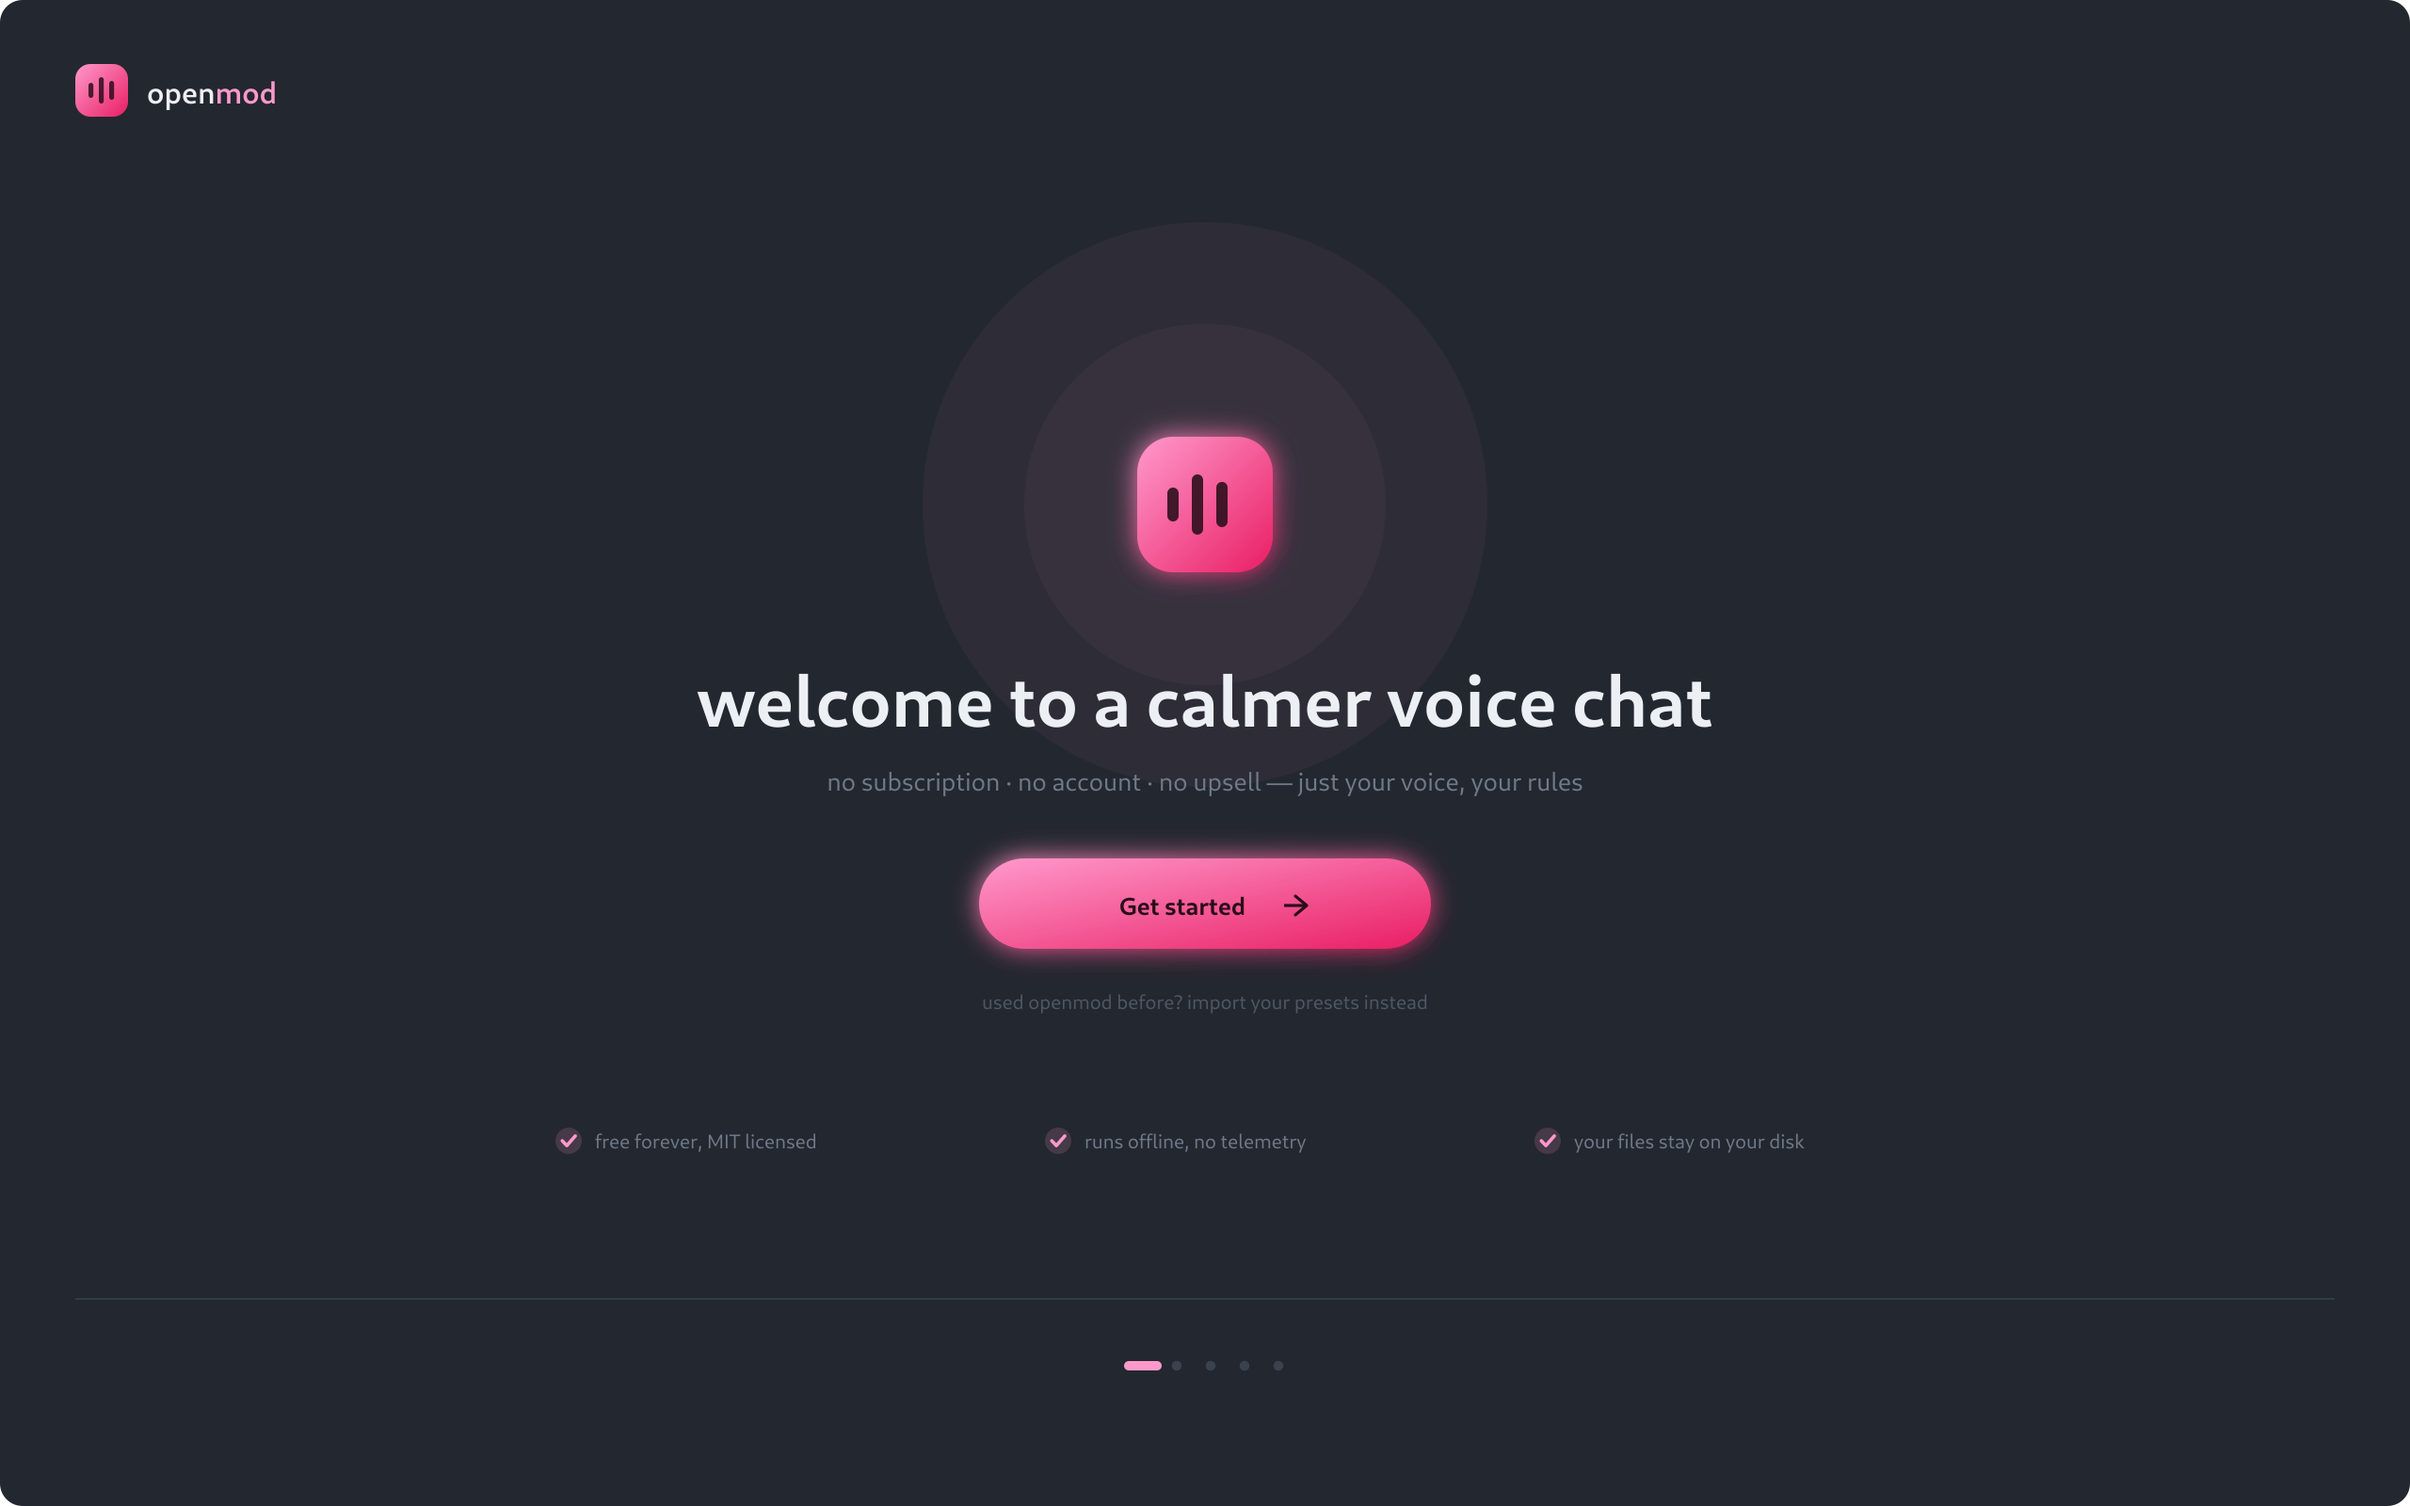
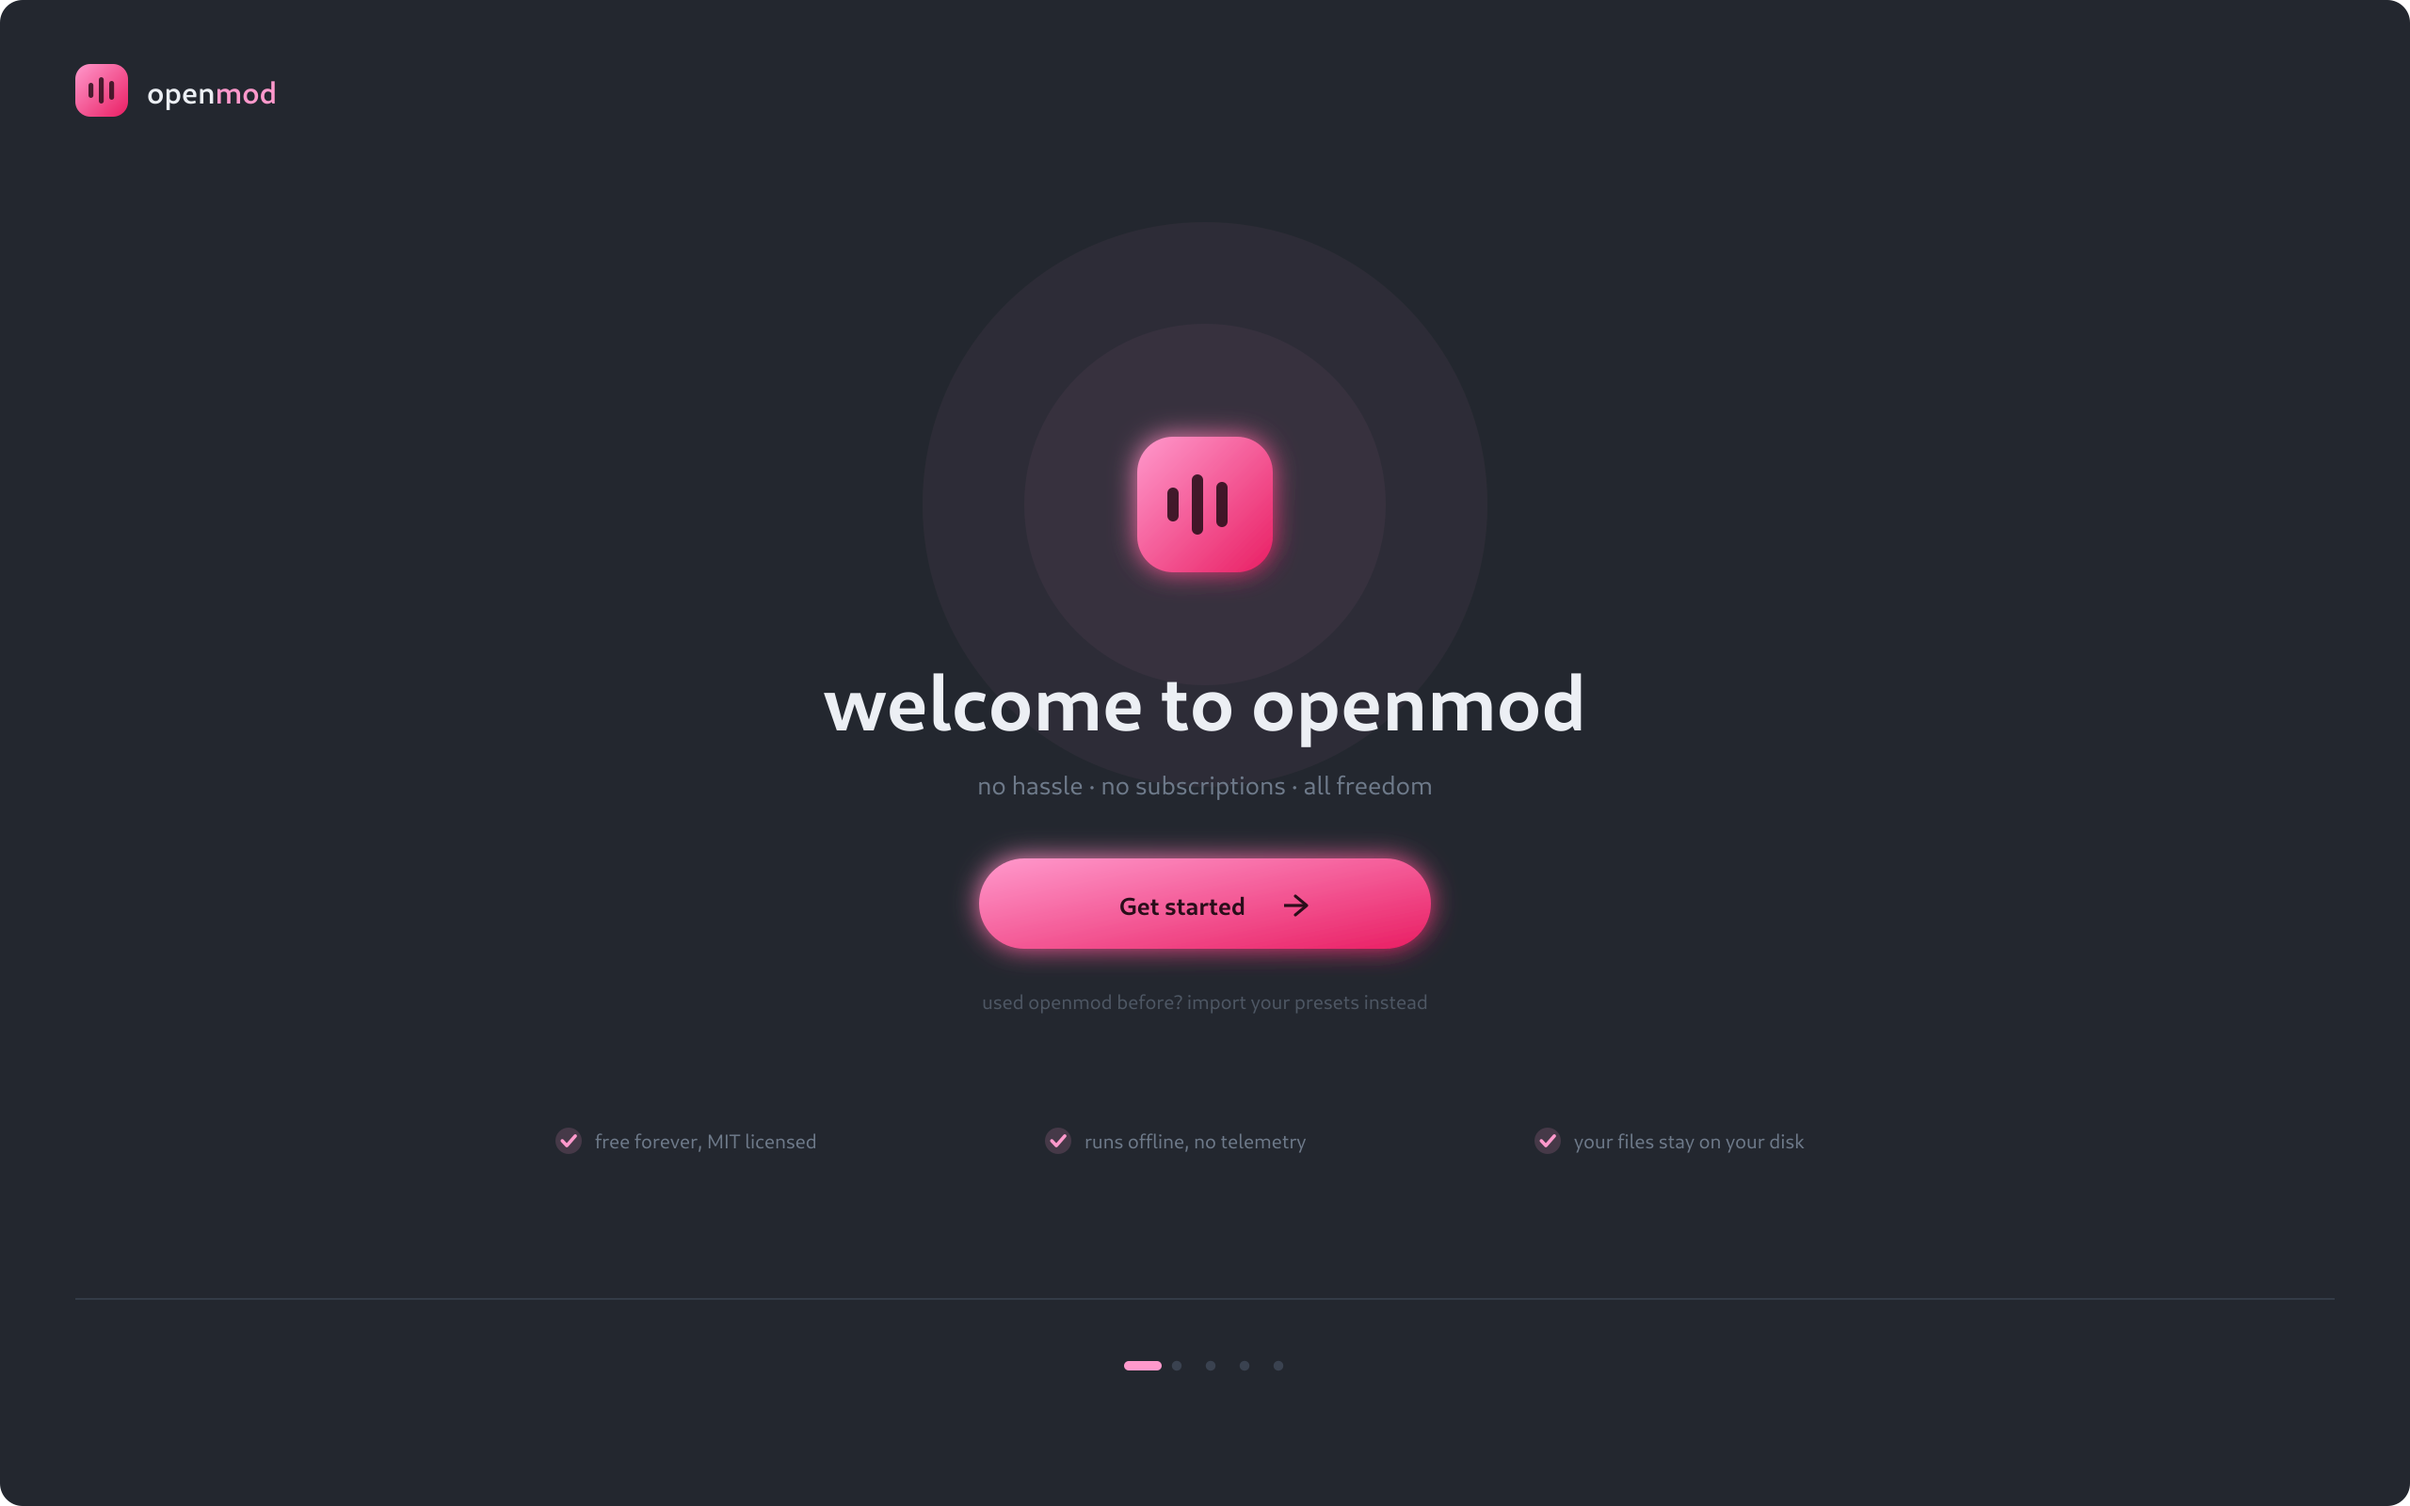
ui: welcome copy — "welcome to openmod / no hassle · no subscriptions · all freedom"
The user's wording, in the wizard's own type voice. Every other headline in the
flow is lowercase ("welcome", "you're live"), and the product name is lowercase
everywhere else in the project, so the headline stays lowercase and the tagline
keeps the middot rhythm instead of commas.

- draw_wizard_welcome(headline, tagline) is parameterised now, so the copy is a
  value instead of being baked into the draw calls
- wizard_sheet.py: the contact sheet was generated inline in a shell one-liner;
  it's a checked-in script now so the sheet is reproducible
- ui/README.md: file table + regen commands cover the sheet, and step 1's row
  quotes the shipped wording

Changed region(s): [[0.2812, 0.4375, 0.7188, 0.5312]]

diff --git a/ui/wizard_sheet.py b/ui/wizard_sheet.py
@@ -1,0 +1,62 @@
+#!/usr/bin/env python3
+"""Compose the first-launch wizard screens into one contact sheet.
+
+Run after mockup.py + rsvg-convert (it embeds the 2x PNGs, not the SVGs):
+
+    python3 ui/mockup.py
+    for f in ui/mockup-wizard-*.svg; do rsvg-convert -z 2 "$f" -o "${f%.svg}.png"; done
+    python3 ui/wizard_sheet.py
+    rsvg-convert -z 1 ui/mockup-wizard-sheet.svg -o ui/mockup-wizard-sheet.png
+"""
+
+import os
+
+os.chdir(os.path.dirname(os.path.abspath(__file__)))
+
+PANELS = [
+    ("mockup-wizard-1-welcome.png", "1 · welcome"),
+    ("mockup-wizard-2-appearance.png", "2 · appearance (dark)"),
+    ("mockup-wizard-3-vmic-windows.png", "3 · virtual mic — windows (one-press install)"),
+    ("mockup-wizard-3-vmic-linux.png", "3 · virtual mic — linux (already done)"),
+    ("mockup-wizard-4-import.png", "4 · import"),
+    ("mockup-wizard-5-done.png", "5 · you're live"),
+]
+
+S = 0.5
+PW, PH = int(1280 * S), int(800 * S)
+GAP_X, GAP_Y = 28, 44
+M = 40
+COLS = 3
+ROWS = (len(PANELS) + COLS - 1) // COLS
+W = M * 2 + COLS * PW + (COLS - 1) * GAP_X
+H = M + 70 + ROWS * (PH + GAP_Y) + 20
+
+SANS = "Cantarell, DejaVu Sans, sans-serif"
+
+body = [
+    f'<text x="{M}" y="{M + 14}" fill="#ECEFF4" font-size="21" font-family="{SANS}" '
+    f'font-weight="700">openmod · first launch</text>',
+    f'<text x="{M}" y="{M + 38}" fill="#6E7A8A" font-size="11.5" font-family="{SANS}">'
+    f'five calm steps — the only platform-specific one is the virtual mic '
+    f'(a driver on Windows, free on Linux)</text>',
+]
+
+for i, (f, label) in enumerate(PANELS):
+    col, row = i % COLS, i // COLS
+    x = M + col * (PW + GAP_X)
+    y = M + 70 + row * (PH + GAP_Y)
+    body.append(f'<rect x="{x - 1}" y="{y - 1}" width="{PW + 2}" height="{PH + 2}" '
+                f'rx="8" fill="none" stroke="#2A2F38"/>')
+    body.append(f'<image x="{x}" y="{y}" width="{PW}" height="{PH}" href="{f}" '
+                f'preserveAspectRatio="none"/>')
+    body.append(f'<text x="{x}" y="{y + PH + 20}" fill="#8A94A3" font-size="10.5" '
+                f'letter-spacing="0.4" font-family="{SANS}" font-weight="600">{label}</text>')
+
+panels = "".join(body)
+svg = (f'<svg xmlns="http://www.w3.org/2000/svg" xmlns:xlink="http://www.w3.org/1999/xlink" '
+       f'width="{W}" height="{H}" viewBox="0 0 {W} {H}">'
+       f'<rect width="{W}" height="{H}" fill="#15181E"/>{panels}</svg>')
+
+with open("mockup-wizard-sheet.svg", "w") as fh:
+    fh.write(svg)
+print("wrote ui/mockup-wizard-sheet.svg", W, "x", H)

diff --git a/ui/mockup.py b/ui/mockup.py
@@ -684,7 +684,9 @@ def wizard_head(c, title, subtitle=None, subtitle2=None, x=280):
 
 
 # --- step 1: welcome --------------------------------------------------------
-def draw_wizard_welcome(c):
+def draw_wizard_welcome(c,
+                        headline="welcome to openmod",
+                        tagline="no hassle · no subscriptions · all freedom"):
     p = c.p
     wizard_frame(c, 1, show_back=False, show_skip=False, show_next=False)
 
@@ -697,9 +699,8 @@ def draw_wizard_welcome(c):
     for i, hh in enumerate((18, 32, 24)):
         c.rect(620 + i * 13, 268 - hh / 2, 6, hh, rx=3, fill=p["on_accent"], opacity=0.88)
 
-    c.text(640, 386, "welcome to a calmer voice chat", 38, p["text"], 700, SANS, "middle")
-    c.text(640, 420, "no subscription · no account · no upsell — just your voice, your rules",
-           13.5, p["muted"], 400, SANS, "middle")
+    c.text(640, 388, headline, 41, p["text"], 700, SANS, "middle")
+    c.text(640, 422, tagline, 13.5, p["muted"], 400, SANS, "middle")
 
     c.rect(520, 456, 240, 48, rx=24, fill=c.grad(),
            use_filter=c.filt() if p["glow"] else None)

diff --git a/ui/README.md b/ui/README.md
@@ -6,7 +6,13 @@ Design-first workspace. Mockups are generated from one palette-driven script —
 ```bash
 python3 ui/mockup.py                                    # regenerate all SVGs
 for f in ui/*.svg; do rsvg-convert -z 2 "$f" -o "${f%.svg}.png"; done
+python3 ui/wizard_sheet.py                              # wizard contact sheet
+rsvg-convert -z 1 ui/mockup-wizard-sheet.svg -o ui/mockup-wizard-sheet.png
 ```
+
+The welcome copy is a parameter of `draw_wizard_welcome(headline, tagline)`.
+Shipped wording is lowercase — it matches every other headline in the flow
+(`you're live`), and the product name is lowercase everywhere else too.
 
 | File | What |
 |------|------|
@@ -22,8 +28,10 @@ for f in ui/*.svg; do rsvg-convert -z 2 "$f" -o "${f%.svg}.png"; done
 | `mockup-wizard-3-vmic-linux.svg` | same step on Linux — already done by PipeWire |
 | `mockup-wizard-4-import.svg` | First launch · step 4 — import existing folders |
 | `mockup-wizard-5-done.svg` | First launch · step 5 — you're live |
+| `mockup-wizard-sheet.svg` | all five wizard steps on one contact sheet |
 | `mockup-themes.svg` | all palettes + accent presets on one sheet |
 | `mockup.py` | generator (edit this, never the SVGs) |
+| `wizard_sheet.py` | composes `mockup-wizard-sheet.svg` from the 2x wizard PNGs |
 
 ## Stack (decided 2026-11-11)
 
@@ -131,7 +139,7 @@ welcome ──▶ appearance ──▶ virtual mic ──▶ import ──▶ yo
 
 | Step | Content | Why it exists |
 |------|---------|---------------|
-| 1 Welcome | logo, "welcome to a calmer voice chat", the three promises (free / offline / your files), one `Get started` | Zen's calm front door. No account, no email, no plan picker — nothing to decline |
+| 1 Welcome | logo, **"welcome to openmod"** / **"no hassle · no subscriptions · all freedom"**, the three promises (free / offline / your files), one `Get started` | Zen's calm front door. No account, no email, no plan picker — nothing to decline |
 | 2 Appearance | 4 theme cards with **live mini previews** + accent swatches + a live preview strip | the wizard recolors itself — it *is* the preview, using the real token swap |
 | 3 Virtual mic | Windows: optional one-press **VB-CABLE** install · Linux: `openmod_vmic` already ready | the only genuinely hard requirement; see below |
 | 4 Import | presets / soundboard / other voice changers, with counts and paths | migrating shouldn't mean re-downloading your library |
